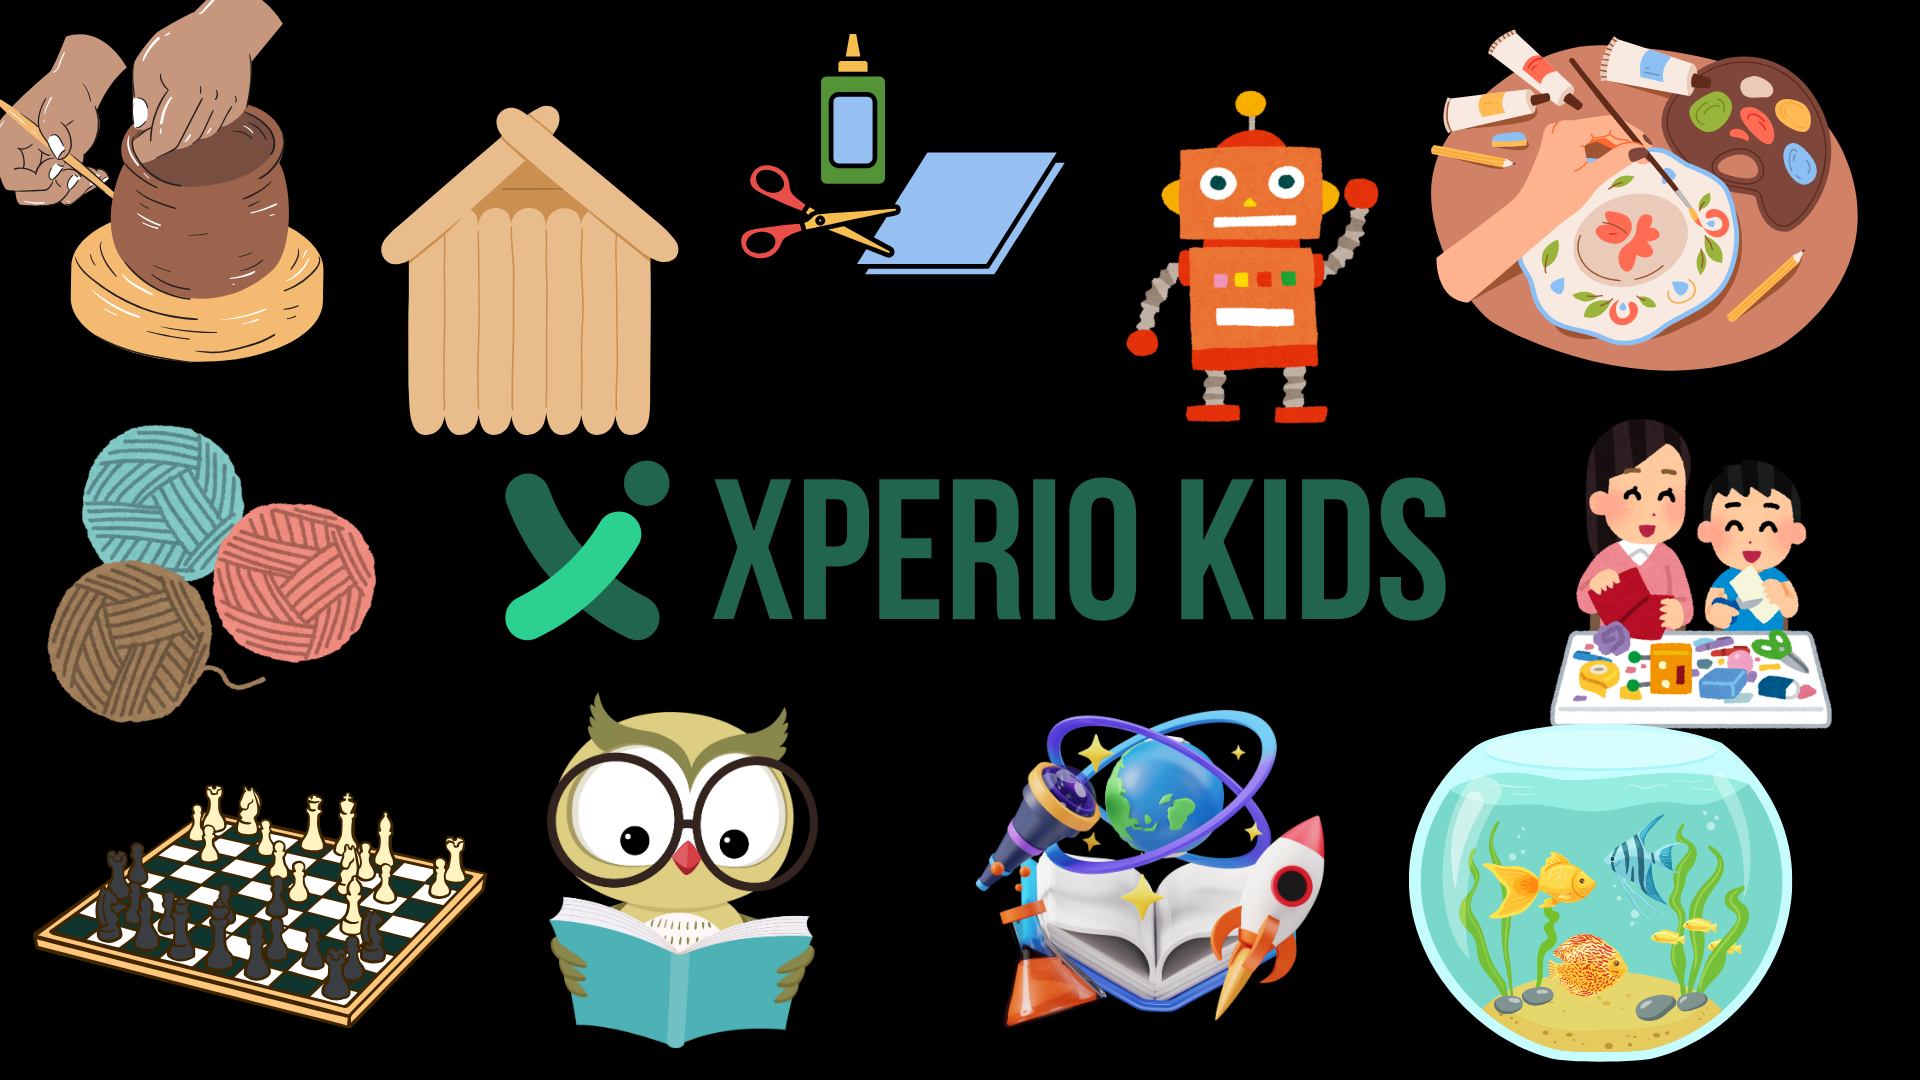
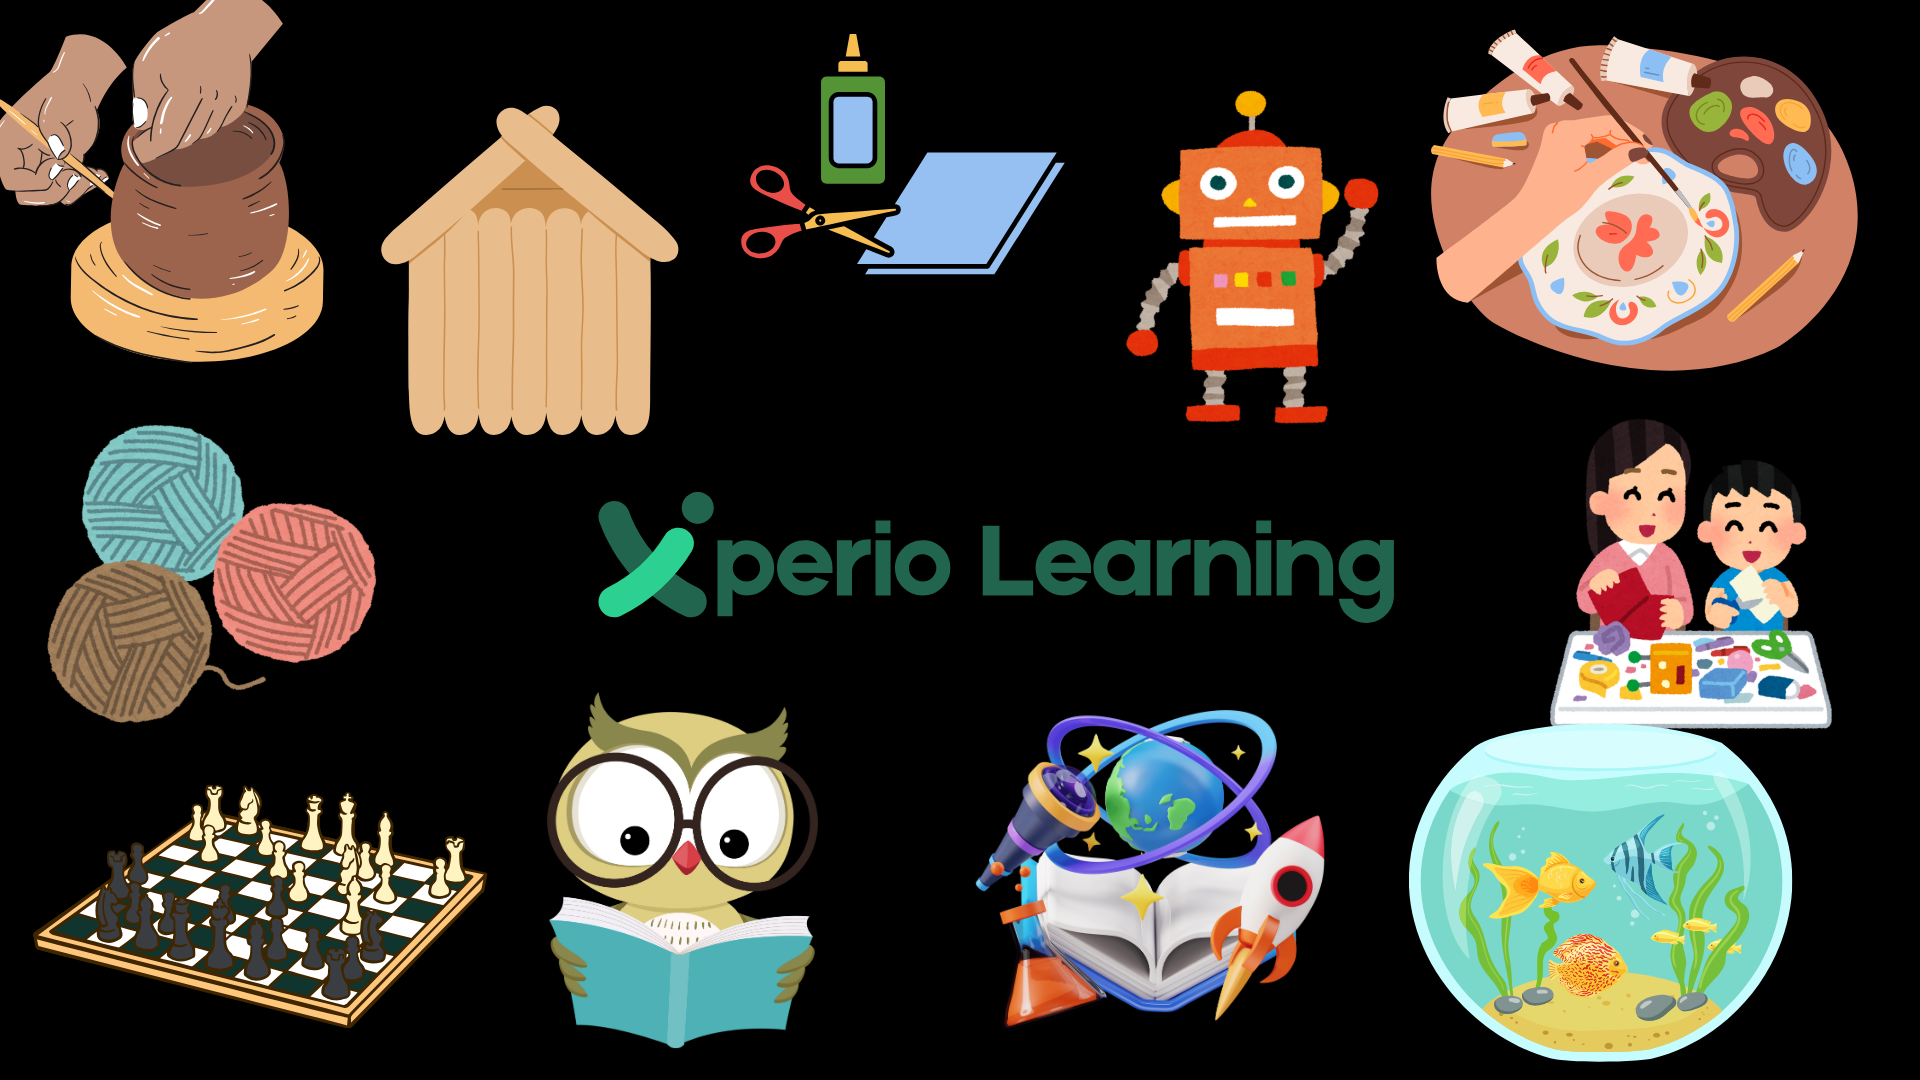
update image

Changed region(s): [[0.25, 0.4278, 0.75, 0.6111]]

diff --git a/frontend/src/routes/index.js b/frontend/src/routes/index.js
@@ -6,7 +6,6 @@ import FalseRoute from "../common/FalseRoute";
 import Main from "../views/LandingPg/Main"
 import About from "../views/About us/About";
 import Gallery from "../views/gallery/gallery";
-import Calandly from "../views/Calandly/Calandly";
 import Voice from "../views/voicemasters/voicemasters";
 import Camp from "../views/summercamp/camp";
 import Sudoku from "../views/sudoku/sudoku";
@@ -23,7 +22,6 @@ function MainRoutes() {
         <Route path="/" element={<Main/>} />
         <Route path="/about" element={<About/>} />
         <Route path="/gallery" element={<Gallery/>} />
-        <Route path="/demo" element={<Calandly/>} />
         <Route path="/voicemasters" element={<Voice/>} />
         <Route path="/camp" element={<Camp/>} />
         <Route path="/sudoku" element={<Sudoku/>} />

diff --git a/frontend/src/views/bday/bday.jsx b/frontend/src/views/bday/bday.jsx
@@ -59,12 +59,12 @@ function Bday() {
             <span>✨ Create Memories to Last a Lifetime:</span>
       </h5>
       <p>
-      With Xperiokids, you're not just hosting a party—you're creating unforgettable memories
+      With Xperio, you're not just hosting a party—you're creating unforgettable memories
        that will spark curiosity and ignite a passion for science in every young mind.
         Give your child the gift of wonder and adventure with a birthday bash they'll never forget.
             </p>
             <h5>
-            <span>🌟🌟 Book Your Xperiokids Birthday Bash Today!🌟 🌟 </span>
+            <span>🌟🌟 Book Your Xperio Kids Birthday Bash Today!🌟 🌟 </span>
       </h5>          
       </div>
         </div>

diff --git a/frontend/src/views/LandingPg/WhyXperio.jsx b/frontend/src/views/LandingPg/WhyXperio.jsx
@@ -29,7 +29,7 @@ function WhyXperio() {
       <img width={"100%"} height={"100%"} src={lab} alt="toghther"/>
       <div id={Style.txt}>
          <h2>Laboratory, not just a Classroom</h2>
-         <p>We extend beyond traditional textbooks at Xperio Kids. 
+         <p>We extend beyond traditional textbooks at Xperio Learning. 
           Our methodology revolves around hands-on learning, where students engage in 
           experiments covering a wide range of subjects, including Robotics, Coding, Physics, Chemistry, 
           Biology, and more. This interactive approach promotes active participation,
